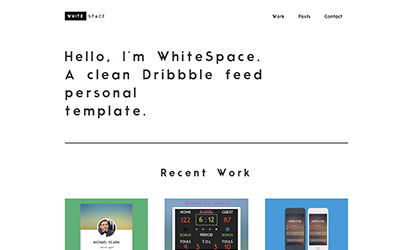
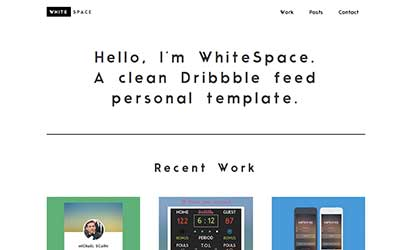
added content info and styling

diff --git a/index.html b/index.html
@@ -45,21 +45,21 @@
 				</li class="project">
 				<li>
 					<div class="caption">
-						<h4>Project Title</h4>
+						<h4>WhiteSpace Landing Page</h4>
 					</div>
-					<a href="https://catob.github.io/karma-clone/index.html" target="_blank"><img src="img/placeholder.jpg" alt=""></a>
+					<a href="#" target="_blank"><img src="img/whitespace.png" alt=""></a>
 				</li class="project">
 				<li>
 					<div class="caption">
-						<h4>Project Title</h4>
+						<h4>"TB Uppföljning" Landing Page</h4>
 					</div>
-					<a href="https://catob.github.io/karma-clone/index.html" target="_blank"><img src="img/placeholder.jpg" alt=""></a>
+					<a href="#" target="_blank"><img src="img/tb.jpg" alt=""></a>
 				</li class="project">
 				<li>
 					<div class="caption">
-						<h4>Project Title</h4>
+						<h4>About me Codepen Site</h4>
 					</div>
-					<a href="https://catob.github.io/karma-clone/index.html" target="_blank"><img src="img/placeholder.jpg" alt=""></a>
+					<a href="https://http://codepen.io/catob/full/aecsi" target="_blank"><img src="img/about-me.jpg" alt=""></a>
 				</li>
 			</ul>
 		</div>
@@ -67,9 +67,15 @@
 
 	<section class="tabs-section">
 		<div class="tabs-links">
-	        <div class="about-link active-bg"><a href="#about">about</a></div>
-			<div class="skills-link"><a href="#skills">skills</a></div>
-			<div><a href="#contact">contact</a></div> 
+	        <div class="about-link active-bg">
+	        	<a href="#about">about</a>
+	        </div>
+			<div class="skills-link">
+				<a href="#skills">skills</a>
+			</div>
+			<div>
+				<a href="#contact">contact</a>
+			</div> 
 		</div>
 	    <div id="about" class="content-text active">
 	        <img src="img/headshot.png" class="about-image">
@@ -79,13 +85,20 @@
 	        <p>Lorem ipsum dolor sit amet, consectetur adipisicing elit. Ipsa eos vel animi esse provident quo veniam ratione veritatis voluptatem ullam soluta eum consectetur recusandae nostrum rem perferendis distinctio. Perferendis iure corporis asperiores alias quos assumenda quo nemo dolor. Placeat ipsam esse fugit velit nemo nihil necessitatibus nulla laborum quidem sapiente.</p>
 	    </div>
 	    <div id="contact" class="content-text">
-	        <p>Dolore enim perspiciatis dolorem labore incidunt nihil excepturi blanditiis necessitatibus quaerat magni reiciendis nesciunt nam suscipit assumenda nulla tempora ipsum accusantium atque voluptas molestias nobis natus ab optio explicabo saepe ullam sint numquam? Ullam aliquid aspernatur minima quas perspiciatis amet cupiditate. Ratione est asperiores ad maiores consectetur aperiam dolorum voluptas cupiditate natus fugiat ipsam ea reiciendis libero delectus!</p>
+	    	<h2>So you wanna get in touch?</h2>
+	        <div class="content-text-button">
+	        	<a href="mailto:cato.benjaminsen@gmail.com">Send me an email</a>
+	        </div>
+	        <div class="content-text-button">
+	        	<p>516.606.8751</p>
+
+	        </div>
 	    </div>
 	</section>
 	
 	<footer>
 		<div class="content">
-			<p class="email">Like what you see? Send me an email!<br><a href="mailto:cato.benjaminsen@gmail.com"><i class="fa fa-envelope"></i></a></p>
+			<p class="email">Like what you see? <span>Send me an email!</span><br><a href="mailto:cato.benjaminsen@gmail.com"><i class="fa fa-envelope"></i></a></p>
 
 			<p class="copy"><i class="fa fa-copyright"></i> Cato Benjaminsen 2014</p>
 		</div>

diff --git a/css/base.css b/css/base.css
@@ -150,12 +150,15 @@ nav .logo {
 	padding-top: 2.5rem;
 }
 .work-images .caption {
-	padding-bottom: 0.5rem;
+	padding-bottom: 1rem;
+}
+.work-images img {
+	border: 1px solid #3C3B41;
 }
 .work-images li {
 	display: inline-block;
 	text-align: center;
-	padding: 2%;
+	padding: 2.5%;
 }
 /* TABS */
 .tabs-section {
@@ -180,7 +183,7 @@ nav .logo {
 .about-link, .skills-link {
 	border-bottom: 2px solid #3C3B41;
 }
-.tabs-links div a {
+.tabs-links a {
     text-align: center;
     margin: -10px auto 0;
     position: absolute;
@@ -219,13 +222,41 @@ nav .logo {
 }
 .active-bg a {
 	color: #000;
+	font-weight: bold;
 }
+/* ABOUT TAB */
+/* SKILLS TAB */
+/* CONTACT TAB */
+.tabs-section .content-text {
+	text-align: center;
+}
+.tabs-section .content-text h2 {
+	font-size: 2rem;
+	padding: 1rem 0 5rem 0;
+}
+.tabs-section .content-text .content-text-button {
+	display: inline-block;
+	margin: 0 2rem;
+	border: 1px solid #3C3B41;
+	width: 15rem;
+	height: 8rem;
+	line-height: 8rem;
+	font-size: 1.5rem;
+}
+.tabs-section .content-text .content-text-button a, p {
+	color: #000;
+	display: block;
+}
+.tabs-section .content-text .content-text-button a:hover, p:hover {
+	background-color: #3C3B41;
+	color: #fff;
+}
+
 /* FOOTER */
 footer {
 	background-color: #3C3B41;
 	height: 10rem;
 	text-align: center;
-
 }
 footer .email {
 	color: #fff;
@@ -239,6 +270,9 @@ footer .email i {
 }
 footer .email i:hover {
 	color: #A58449;
+}
+footer span {
+	padding-left: 0.3rem;
 }
 footer .copy {
 	color: #fff;
